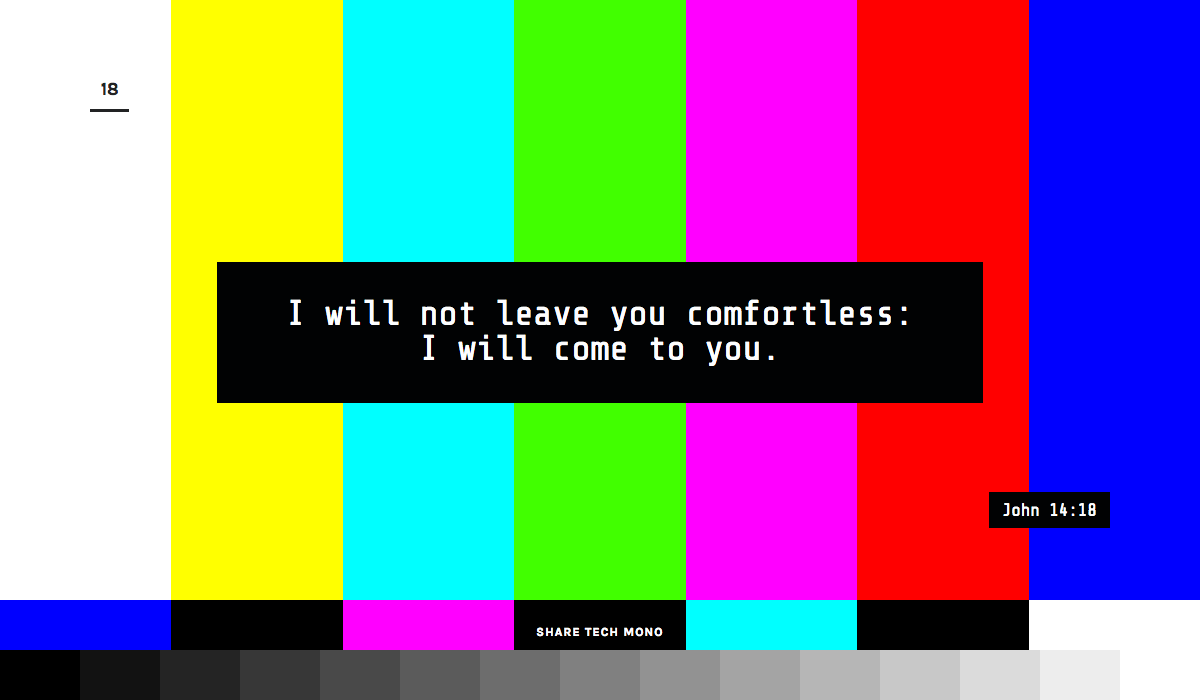
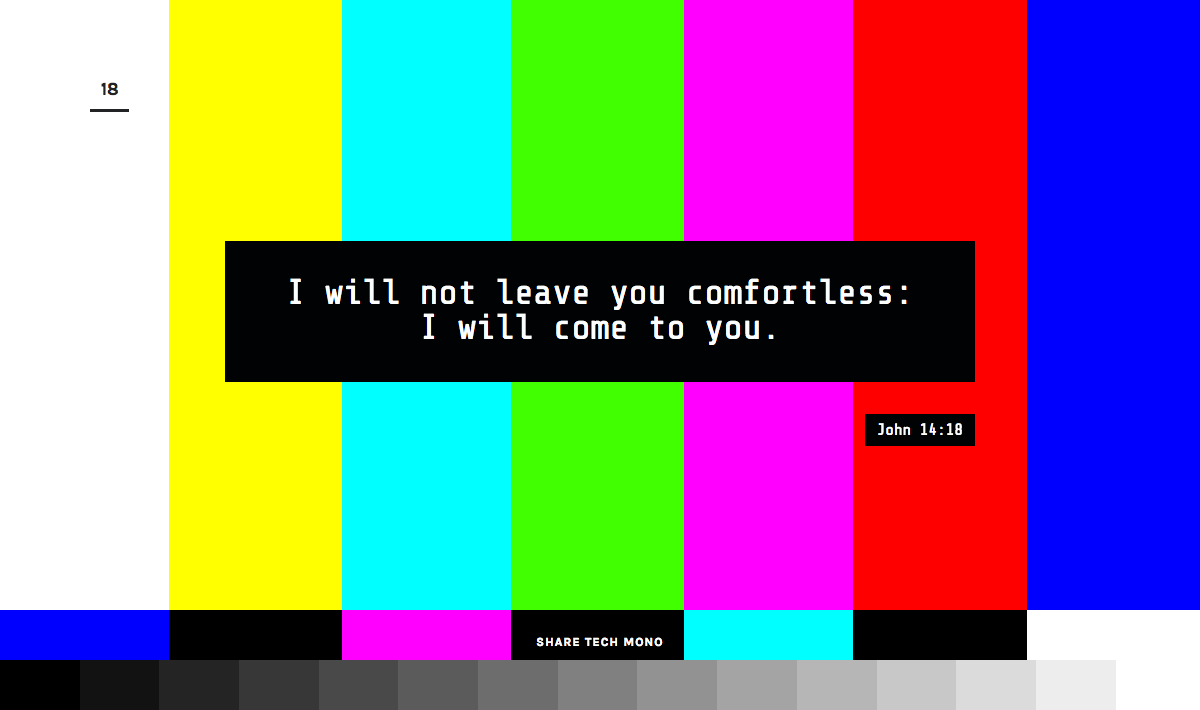
Day 18. Refactor! Fix .jpg to .png.

diff --git a/index.html b/index.html
@@ -8,7 +8,7 @@
 
   <meta name="fontsCSS" content="//fonts.googleapis.com/css?family=Karla:400,700|Playfair+Display:400,400italic,700,700italic|Share+Tech+Mono|PT+Serif:400,700italic|Montserrat|Inconsolata:700|Codystar|Old+Standard+TT:400,400italic|Oswald:300,400|Ovo|Lato:100,400|Libre+Baskerville:400italic|Vast+Shadow|Amatic+SC|PT+Mono|Abril+Fatface|Roboto:100,300|Crimson+Text:400,400italic,700|Glegoo:400,700">
   <style>
-    .about-title-wrap,.day-info,.day-number,.footer{text-align:center}a,aside,b,blockquote,body,cite,div,em,figcaption,figure,footer,h1,h2,h3,h4,h5,h6,header,html,i,img,li,nav,ol,p,q,section,small,span,strong,sub,sup,time,ul{font:inherit;vertical-align:baseline;border:0;padding:0;margin:0}.about-description,.container,.day-scripture{margin-left:auto;margin-right:auto}.day-info,.day-number,b,strong{font-weight:700}.about-title-head,.about-title-tail,em,i{font-style:italic}article,aside,details,figcaption,figure,footer,header,nav,section{display:block}body{line-height:1;font-family:KarlaLocal,"Open Sans",Helvetica,Arial,sans-serif;color:#222324;text-rendering:optimizeLegibility;-webkit-font-variant-ligatures:common-ligatures;font-variant-ligatures:common-ligatures;-webkit-font-feature-settings:"liga";font-feature-settings:"liga"}ol,ul{list-style:none}blockquote,q{quotes:none}blockquote:after,blockquote:before,q:after,q:before{content:'';content:none}@font-face{font-family:KarlaLocal;font-weight:400;font-style:normal;src:local("Karla"),local("Karla-Regular")}@font-face{font-family:KarlaLocal;font-weight:700;font-style:normal;src:local("Karla"),local("Karla-Bold")}@font-face{font-family:PlayfairDisplayLocal;font-weight:400;font-style:normal;src:local("Playfair Display"),local("PlayfairDisplay-Regular")}@font-face{font-family:PlayfairDisplayLocal;font-weight:700;font-style:normal;src:local("Playfair Display"),local("PlayfairDisplay-Bold")}@font-face{font-family:PlayfairDisplayLocal;font-weight:700;font-style:italic;src:local("Playfair Display"),local("PlayfairDisplay-BoldItalic")}.fonts-loaded-100 body{font-family:Karla,KarlaLocal,"Open Sans",Helvetica,Arial,sans-serif}.fonts-timeout-100 body{font-family:KarlaLocal,Karla,"Open Sans",Helvetica,Arial,sans-serif}a{color:#3498db;text-decoration:none}.footer,.footer a{color:#fdfeff}a:hover{text-decoration:underline}.container{max-width:64em}.footer{font-size:.875em;background-color:#222324;padding-top:1.5625em;padding-bottom:1.5625em}@media only screen and (min-width:40em){.footer{padding-top:1.875em;padding-bottom:1.875em}}@media only screen and (min-width:52em){.footer{padding-top:2.5em;padding-bottom:2.5em}}.day-number{color:#222324;border-bottom:3px solid #222324;display:inline-block;width:2.1875em;padding-bottom:.625em;margin-bottom:3.5em}.day-number--white{color:#fdfeff;border-bottom-color:#fdfeff}.day-scripture{max-width:80em}.day-scripture::after{clear:both;content:"";display:table}.day-info{font-size:.75em;letter-spacing:.1em;text-transform:uppercase;margin-top:5.33333em}.day-reference{display:block}.day-font{line-height:1.4}.day-font-link{color:#222324}.about,.day{padding:2.5em .9375em}@media only screen and (min-width:30em){.about,.day{padding:3.125em 1.875em}.day-number{margin-bottom:4.0625em}.day-info{margin-top:6.25em}}@media only screen and (min-width:40em){.about,.day{padding:3.75em 3.4375em}.day-number{font-size:1.0625em;margin-bottom:4.23529em}.day-info{margin-top:7em}}@media only screen and (min-width:52em){.about,.day{padding:4.375em 4.6875em}.day-number{margin-bottom:4.8125em}.day-info{margin-top:7.58333em}}@media only screen and (min-width:64em){.about,.day{padding:5em 5.625em}.day-number{font-size:1.125em;margin-bottom:4.44444em}.day-info{margin-top:8em}}.about{background-color:#f2f3f4}.about-title{font-family:PlayfairDisplayLocal,"Times New Roman",Times,serif;margin-bottom:1.25em}.fonts-loaded-100 .about-title{font-family:"Playfair Display",PlayfairDisplayLocal,"Times New Roman",Times,serif}.fonts-timeout-100 .about-title{font-family:PlayfairDisplayLocal,"Playfair Display","Times New Roman",Times,serif}.about-title-head{font-size:2.5em;font-weight:700;display:block}.about-title-tail{font-size:1em;letter-spacing:.22em;text-transform:uppercase;position:relative;left:.0625em}.about-description{color:#454647;line-height:1.3;letter-spacing:-.02em;max-width:31.25em}.day--18 .day-font-link,.day-18-text{color:#fdfeff}.about-description p:first-child{margin-bottom:.5em}@media only screen and (min-width:40em){.container--about{display:-webkit-flex;display:-ms-flexbox;display:flex;-webkit-justify-content:center;-ms-flex-pack:center;justify-content:center}.about-title-wrap{text-align:right;-webkit-flex:0 0 13.125em;-ms-flex:0 0 13.125em;flex:0 0 13.125em;margin-right:3.125em}.about-description{-webkit-flex:1;-ms-flex:1;flex:1;max-width:25em;margin-left:0;margin-right:0}.about-title{margin-top:-.9375em;margin-bottom:0}.about-title-head{font-size:3em}.about-title-tail{font-size:1.1875em;letter-spacing:.23em;left:.18421em}}.day--18{position:relative;height:26.25em}@media only screen and (min-width:30em){.day--18{height:25em}}@media only screen and (min-width:40em){.day--18{height:30em}}@media only screen and (min-width:52em){.about-title-head{font-size:4em}.about-title-tail{font-size:1.375em;letter-spacing:.355em;left:.27273em}.about-title-wrap{-webkit-flex-basis:16.875em;-ms-flex-preferred-size:16.875em;flex-basis:16.875em;margin-right:4.375em}.day--18{height:28.75em}}.day--18 .day-number{position:relative;z-index:2}.day--18 .day-text{font-family:"Share Tech Mono",Consolas,"Liberation Mono",Courier,monospace}.day--18 .day-reference{text-align:center;position:relative;z-index:2;float:right;top:5em}.day--18 .day-font,.day-18-bars{position:absolute;left:0;width:100%}.day--18 .day-reference-link{color:#fdfeff;padding:.5em .75em;background-color:#010203;display:inline-block}.day--18 .day-font{z-index:2;bottom:2.5em}@media only screen and (min-width:30em){.day--18 .day-font{bottom:3.125em}}@media only screen and (min-width:40em){.day--18 .day-font{bottom:3.75em}}@media only screen and (min-width:52em){.day--18 .day-reference{top:7em}.day--18 .day-font{bottom:4.375em}}@media only screen and (min-width:64em){.day--18{height:33.75em}.day--18 .day-reference{top:10em}.day--18 .day-font{bottom:5em}}.day-18-bars{top:0;z-index:1}.day-18-bar{width:14.285714286%;float:left}.day-18-bars--top .day-18-bar{height:25em}.day-18-bars--top .day-18-bar:nth-child(2){background:#ff0}.day-18-bars--top .day-18-bar:nth-child(3){background:#0ff}.day-18-bars--top .day-18-bar:nth-child(4){background:#41ff00}.day-18-bars--top .day-18-bar:nth-child(5){background:#ff00ff}.day-18-bars--top .day-18-bar:nth-child(6){background:red}.day-18-bars--mid .day-18-bar:nth-child(1),.day-18-bars--top .day-18-bar:nth-child(7){background:#00f}.day-18-bars--mid{top:25em}.day-18-bars--mid .day-18-bar{height:3.125em}.day-18-bars--mid .day-18-bar:nth-child(3){background:#ff00ff}.day-18-bars--mid .day-18-bar:nth-child(5){background:#0ff}.day-18-bars--mid .day-18-bar:nth-child(7){background:#fff}.day-18-bars--bottom .day-18-bar:nth-child(1),.day-18-bars--mid .day-18-bar:nth-child(2),.day-18-bars--mid .day-18-bar:nth-child(4),.day-18-bars--mid .day-18-bar:nth-child(6){background:#000}.day-18-bars--bottom{top:28.125em}.day-18-bars--bottom .day-18-bar{width:6.666666667%;height:3.125em}.day-18-bars--bottom .day-18-bar:nth-child(2){background:#121212}.day-18-bars--bottom .day-18-bar:nth-child(3){background:#242424}.day-18-bars--bottom .day-18-bar:nth-child(4){background:#373737}.day-18-bars--bottom .day-18-bar:nth-child(5){background:#494949}.day-18-bars--bottom .day-18-bar:nth-child(6){background:#5b5b5b}.day-18-bars--bottom .day-18-bar:nth-child(7){background:#6d6d6d}.day-18-bars--bottom .day-18-bar:nth-child(8){background:grey}.day-18-bars--bottom .day-18-bar:nth-child(9){background:#929292}.day-18-bars--bottom .day-18-bar:nth-child(10){background:#a4a4a4}.day-18-bars--bottom .day-18-bar:nth-child(11){background:#b6b6b6}.day-18-bars--bottom .day-18-bar:nth-child(12){background:#c8c8c8}.day-18-bars--bottom .day-18-bar:nth-child(13){background:#dbdbdb}.day-18-bars--bottom .day-18-bar:nth-child(14){background:#ededed}.day-18-bars--bottom .day-18-bar:nth-child(15){background:#fff}.day-18-text{font-size:1.3em;text-align:center;padding:1em;background:#010203;display:block;max-width:18.75em;margin-left:auto;margin-right:auto;position:relative;top:3.2em;z-index:2}@media only screen and (min-width:30em){.day-18-text{font-size:1.6em;top:1.8em}}@media only screen and (min-width:40em){.day--18 .day-reference-link{font-size:1.1em}.day--18 .day-reference{bottom:8.5em}.day-18-bars--top .day-18-bar{height:31.25em}.day-18-bars--mid{top:31.25em}.day-18-bars--bottom{top:34.375em}.day-18-text{font-size:2em;top:1.8em}}@media only screen and (min-width:64em){.day--18 .day-reference{bottom:9.5em}.day-18-bars--top .day-18-bar{height:37.5em}.day-18-bars--mid{top:37.5em}.day-18-bars--bottom{top:40.625em}}
+    .about-title-wrap,.day-info,.day-number,.footer{text-align:center}a,aside,b,blockquote,body,cite,div,em,figcaption,figure,footer,h1,h2,h3,h4,h5,h6,header,html,i,img,li,nav,ol,p,q,section,small,span,strong,sub,sup,time,ul{font:inherit;vertical-align:baseline;border:0;padding:0;margin:0}.about-description,.container,.day-scripture{margin-left:auto;margin-right:auto}.day-info,.day-number,b,strong{font-weight:700}.about-title-head,.about-title-tail,em,i{font-style:italic}article,aside,details,figcaption,figure,footer,header,nav,section{display:block}body{line-height:1;font-family:KarlaLocal,"Open Sans",Helvetica,Arial,sans-serif;color:#222324;text-rendering:optimizeLegibility;-webkit-font-variant-ligatures:common-ligatures;font-variant-ligatures:common-ligatures;-webkit-font-feature-settings:"liga";font-feature-settings:"liga"}ol,ul{list-style:none}blockquote,q{quotes:none}blockquote:after,blockquote:before,q:after,q:before{content:'';content:none}@font-face{font-family:KarlaLocal;font-weight:400;font-style:normal;src:local("Karla"),local("Karla-Regular")}@font-face{font-family:KarlaLocal;font-weight:700;font-style:normal;src:local("Karla"),local("Karla-Bold")}@font-face{font-family:PlayfairDisplayLocal;font-weight:400;font-style:normal;src:local("Playfair Display"),local("PlayfairDisplay-Regular")}@font-face{font-family:PlayfairDisplayLocal;font-weight:700;font-style:normal;src:local("Playfair Display"),local("PlayfairDisplay-Bold")}@font-face{font-family:PlayfairDisplayLocal;font-weight:700;font-style:italic;src:local("Playfair Display"),local("PlayfairDisplay-BoldItalic")}.fonts-loaded-100 body{font-family:Karla,KarlaLocal,"Open Sans",Helvetica,Arial,sans-serif}.fonts-timeout-100 body{font-family:KarlaLocal,Karla,"Open Sans",Helvetica,Arial,sans-serif}a{color:#3498db;text-decoration:none}.footer,.footer a{color:#fdfeff}a:hover{text-decoration:underline}.container{max-width:64em}.footer{font-size:.875em;background-color:#222324;padding-top:1.5625em;padding-bottom:1.5625em}@media only screen and (min-width:40em){.footer{padding-top:1.875em;padding-bottom:1.875em}}@media only screen and (min-width:52em){.footer{padding-top:2.5em;padding-bottom:2.5em}}.day-number{color:#222324;border-bottom:3px solid #222324;display:inline-block;width:2.1875em;padding-bottom:.625em;margin-bottom:3.5em}.day-number--white{color:#fdfeff;border-bottom-color:#fdfeff}.day-scripture{max-width:80em}.day-scripture::after{clear:both;content:"";display:table}.day-info{font-size:.75em;letter-spacing:.1em;text-transform:uppercase;margin-top:5.33333em}.day-reference{display:block}.day-font{line-height:1.4}.day-font-link{color:#222324}.about,.day{padding:2.5em .9375em}@media only screen and (min-width:30em){.about,.day{padding:3.125em 1.875em}.day-number{margin-bottom:4.0625em}.day-info{margin-top:6.25em}}@media only screen and (min-width:40em){.about,.day{padding:3.75em 3.4375em}.day-number{font-size:1.0625em;margin-bottom:4.23529em}.day-info{margin-top:7em}}@media only screen and (min-width:52em){.about,.day{padding:4.375em 4.6875em}.day-number{margin-bottom:4.8125em}.day-info{margin-top:7.58333em}}@media only screen and (min-width:64em){.about,.day{padding:5em 5.625em}.day-number{font-size:1.125em;margin-bottom:4.44444em}.day-info{margin-top:8em}}.about{background-color:#f2f3f4}.about-title{font-family:PlayfairDisplayLocal,"Times New Roman",Times,serif;margin-bottom:1.25em}.fonts-loaded-100 .about-title{font-family:"Playfair Display",PlayfairDisplayLocal,"Times New Roman",Times,serif}.fonts-timeout-100 .about-title{font-family:PlayfairDisplayLocal,"Playfair Display","Times New Roman",Times,serif}.about-title-head{font-size:2.5em;font-weight:700;display:block}.about-title-tail{font-size:1em;letter-spacing:.22em;text-transform:uppercase;position:relative;left:.0625em}.about-description{color:#454647;line-height:1.3;letter-spacing:-.02em;max-width:31.25em}.day--18 .day-font-link,.day-18-text{color:#fdfeff}.about-description p:first-child{margin-bottom:.5em}@media only screen and (min-width:40em){.container--about{display:-webkit-flex;display:-ms-flexbox;display:flex;-webkit-justify-content:center;-ms-flex-pack:center;justify-content:center}.about-title-wrap{text-align:right;-webkit-flex:0 0 13.125em;-ms-flex:0 0 13.125em;flex:0 0 13.125em;margin-right:3.125em}.about-description{-webkit-flex:1;-ms-flex:1;flex:1;max-width:25em;margin-left:0;margin-right:0}.about-title{margin-top:-.9375em;margin-bottom:0}.about-title-head{font-size:3em}.about-title-tail{font-size:1.1875em;letter-spacing:.23em;left:.18421em}}@media only screen and (min-width:52em){.about-title-head{font-size:4em}.about-title-tail{font-size:1.375em;letter-spacing:.355em;left:.27273em}.about-title-wrap{-webkit-flex-basis:16.875em;-ms-flex-preferred-size:16.875em;flex-basis:16.875em;margin-right:4.375em}}.day--18{background:linear-gradient(to right,#fff 0,#fff 14.29%,#ff0 14.29%,#ff0 28.57%,#0ff 28.57%,#0ff 42.86%,#41ff00 42.86%,#41ff00 57.14%,#ff00ff 57.14%,#ff00ff 71.43%,red 71.43%,red 85.71%,#00f 85.71%);position:relative;height:25em}@media only screen and (min-width:30em){.day--18{height:28.125em}}@media only screen and (min-width:40em){.day--18{height:31.25em}}@media only screen and (min-width:64em){.day--18{height:34.375em}}.day--18::after,.day--18::before{content:"";width:100%;height:3.125em;position:absolute;left:0}.day--18::before{bottom:3.125em;background:linear-gradient(to right,#00f 0,#00f 14.29%,#000 14.29%,#000 28.57%,#ff00ff 28.57%,#ff00ff 42.86%,#000 42.86%,#000 57.14%,#0ff 57.14%,#0ff 71.43%,#000 71.43%,#000 85.71%,#fff 85.71%)}.day--18::after{bottom:0;background:linear-gradient(to right,#000 0,#000 6.67%,#121212 6.67%,#121212 13.33%,#242424 13.33%,#242424 20%,#373737 20%,#373737 26.67%,#494949 26.67%,#494949 33.33%,#5b5b5b 33.33%,#5b5b5b 40%,#6d6d6d 40%,#6d6d6d 46.67%,grey 46.67%,grey 53.33%,#929292 53.33%,#929292 60%,#a4a4a4 60%,#a4a4a4 66.67%,#b6b6b6 66.67%,#b6b6b6 73.33%,#c8c8c8 73.33%,#c8c8c8 80%,#dbdbdb 80%,#dbdbdb 86.67%,#ededed 86.67%,#ededed 93.33%,#fff 93.33%)}.day--18 .day-number{position:relative;z-index:2}.day--18 .day-text{font-family:"Share Tech Mono",Consolas,"Liberation Mono",Courier,monospace;max-width:46.875em;margin-left:auto;margin-right:auto}.day--18 .day-reference{text-align:right;z-index:2;margin-top:2em}.day--18 .day-reference-link{color:#fdfeff;padding:.5em .75em;background-color:#010203;display:inline-block}.day--18 .day-font{position:absolute;width:100%;z-index:2;bottom:2.5em;left:0}@media only screen and (min-width:30em){.day--18 .day-font{bottom:3.125em}}@media only screen and (min-width:40em){.day--18 .day-font{bottom:3.75em}}@media only screen and (min-width:52em){.day--18 .day-font{bottom:4.375em}}.day-18-text{font-size:1.3em;text-align:center;padding:1em;background:#010203;display:block;margin-top:1em;z-index:2}@media only screen and (min-width:30em){.day-18-text{font-size:1.6em;margin-top:1.2em}}@media only screen and (min-width:40em){.day-18-text{font-size:2em;margin-top:1.4em}}@media only screen and (min-width:64em){.day--18 .day-font{bottom:5em}.day-18-text{font-size:2.2em;padding-left:1.5em;padding-right:1.5em}}
   </style>
   <meta name="mainCSS" content="assets/css/screen.css?20150817">
 
@@ -43,7 +43,7 @@
   <meta property="og:type" content="website">
 
   <meta property="og:description" content="One passage of Scripture, every day, for 100 days.">
-  <meta property="og:image" content="https://jonsuh.com/100-days-of-scriptures/assets/images/day-18.jpg">
+  <meta property="og:image" content="https://jonsuh.com/100-days-of-scriptures/assets/images/day-18.png">
   <meta property="og:image" content="https://jonsuh.com/100-days-of-scriptures/assets/images/day-17.jpg">
   <meta property="og:image" content="https://jonsuh.com/100-days-of-scriptures/assets/images/day-16.png">
   <meta property="og:image" content="https://jonsuh.com/100-days-of-scriptures/assets/images/day-15.png">
@@ -70,7 +70,7 @@
   <meta name="twitter:url" content="https://jonsuh.com/100-days-of-scriptures/">
   <meta name="twitter:title" content="100 Days of Scriptures">
   <meta name="twitter:description" content="One passage of Scripture, every day, for 100 days.">
-  <meta name="twitter:image:src" content="https://jonsuh.com/100-days-of-scriptures/assets/images/day-18.jpg">
+  <meta name="twitter:image:src" content="https://jonsuh.com/100-days-of-scriptures/assets/images/day-18.png">
 
   <meta name="mobile-web-app-capable" content="yes">
   <link rel="icon" sizes="192x192" href="https://jonsuh.com/100-days-of-scriptures/icon.png">
@@ -101,15 +101,6 @@
     <a href="#day-18"><time datetime="2015-08-17" title="August 17, 2015" class="day-number">18</time></a>
     <section class="day-scripture">
       <blockquote class="day-text">
-        <ul class="day-18-bars day-18-bars--top">
-          <li class="day-18-bar"></li><li class="day-18-bar"></li><li class="day-18-bar"></li><li class="day-18-bar"></li><li class="day-18-bar"></li><li class="day-18-bar"></li><li class="day-18-bar"></li>
-        </ul>
-        <ul class="day-18-bars day-18-bars--mid">
-          <li class="day-18-bar"></li><li class="day-18-bar"></li><li class="day-18-bar"></li><li class="day-18-bar"></li><li class="day-18-bar"></li><li class="day-18-bar"></li><li class="day-18-bar"></li>
-        </ul>
-        <ul class="day-18-bars day-18-bars--bottom">
-          <li class="day-18-bar"></li><li class="day-18-bar"></li><li class="day-18-bar"></li><li class="day-18-bar"></li><li class="day-18-bar"></li><li class="day-18-bar"></li><li class="day-18-bar"></li><li class="day-18-bar"></li><li class="day-18-bar"></li><li class="day-18-bar"></li><li class="day-18-bar"></li><li class="day-18-bar"></li><li class="day-18-bar"></li><li class="day-18-bar"></li><li class="day-18-bar"></li>
-        </ul>
         <span class="day-18-text">I will not leave you comfortless: I will come to you.</span>
         <footer class="day-reference">
           <cite><a href="https://www.bible.com/bible/1/joh.14.18" class="day-reference-link" class="day-reference-link">John 14:18</a></cite>

diff --git a/assets/sass/days/_018.scss b/assets/sass/days/_018.scss
@@ -4,19 +4,92 @@
 $day-18-font: "Share Tech Mono", Consolas, "Liberation Mono", Courier, monospace;
 
 .day--18 {
+  background: linear-gradient(to right,
+    white 0%,
+    white 14.29%,
+    yellow 14.29%,
+    yellow 28.57%,
+    cyan 28.57%,
+    cyan 42.86%,
+    #41ff00 42.86%,
+    #41ff00 57.14%,
+    magenta 57.14%,
+    magenta 71.43%,
+    red 71.43%,
+    red 85.71%,
+    blue 85.71%);
+
   position: relative;
-  height: em-calc(420);
+  height: em-calc(400);
   @include mq(small) {
-    height: em-calc(400);
+    height: em-calc(450);
   }
   @include mq(medium) {
-    height: em-calc(480);
-  }
-  @include mq(mid) {
-    height: em-calc(460);
+    height: em-calc(500);
   }
   @include mq(large) {
-    height: em-calc(540);
+    height: em-calc(550);
+  }
+
+  &::before,
+  &::after {
+    content: "";
+    width: 100%;
+    height: em-calc(50);
+    position: absolute;
+    left: 0;
+  }
+
+  &::before {
+    bottom: em-calc(50);
+    background: linear-gradient(to right,
+      blue 0%,
+      blue 14.29%,
+      black 14.29%,
+      black 28.57%,
+      magenta 28.57%,
+      magenta 42.86%,
+      black 42.86%,
+      black 57.14%,
+      cyan 57.14%,
+      cyan 71.43%,
+      black 71.43%,
+      black 85.71%,
+      white 85.71%);
+  }
+
+  &::after {
+    bottom: 0;
+    background: linear-gradient(to right,
+      black 0,
+      black 6.67%,
+      #121212 6.67%,
+      #121212 13.33%,
+      #242424 13.33%,
+      #242424 20%,
+      #373737 20%,
+      #373737 26.67%,
+      #494949 26.67%,
+      #494949 33.33%,
+      #5b5b5b 33.33%,
+      #5b5b5b 40%,
+      #6d6d6d 40%,
+      #6d6d6d 46.67%,
+      #808080 46.67%,
+      #808080 53.33%,
+      #929292 53.33%,
+      #929292 60%,
+      #a4a4a4 60%,
+      #a4a4a4 66.67%,
+      #b6b6b6 66.67%,
+      #b6b6b6 73.33%,
+      #c8c8c8 73.33%,
+      #c8c8c8 80%,
+      #dbdbdb 80%,
+      #dbdbdb 86.67%,
+      #ededed 86.67%,
+      #ededed 93.33%,
+      white 93.33%);
   }
 
   .day-number {
@@ -26,21 +99,15 @@ $day-18-font: "Share Tech Mono", Consolas, "Liberation Mono", Courier, monospace
 
   .day-text {
     font-family: $day-18-font;
+    max-width: em-calc(750);
+    margin-left: auto;
+    margin-right: auto;
   }
 
   .day-reference {
-    text-align: center;
-    position: relative;
+    text-align: right;
     z-index: 2;
-    float: right;
-    top: 5em;
-
-    @include mq(mid) {
-      top: 7em;
-    }
-    @include mq(large) {
-      top: 10em;
-    }
+    margin-top: 2em;
   }
 
   .day-reference-link {
@@ -51,10 +118,9 @@ $day-18-font: "Share Tech Mono", Consolas, "Liberation Mono", Courier, monospace
   }
 
   .day-font {
-    position: relative;
-    z-index: 2;
     position: absolute;
     width: 100%;
+    z-index: 2;
     bottom: 2.5em;
 
     @include mq(small) {
@@ -77,76 +143,6 @@ $day-18-font: "Share Tech Mono", Consolas, "Liberation Mono", Courier, monospace
   }
 }
 
-.day-18-bars {
-  position: absolute;
-  top: 0;
-  left: 0;
-  width: 100%;
-  z-index: 1;
-}
-
-.day-18-bar {
-  width: 14.285714286%;
-  float: left;
-}
-
-.day-18-bars--top {
-  .day-18-bar {
-    height: em-calc(400);
-
-    &:nth-child(2) { background: yellow; }
-    &:nth-child(3) { background: cyan; }
-    &:nth-child(4) { background: #41ff00; }
-    &:nth-child(5) { background: magenta; }
-    &:nth-child(6) { background: red; }
-    &:nth-child(7) { background: blue; }
-  }
-}
-
-.day-18-bars--mid {
-  top: em-calc(400);
-
-  .day-18-bar {
-    height: em-calc(50);
-
-    &:nth-child(1) { background: blue; }
-    &:nth-child(3) { background: magenta; }
-    &:nth-child(5) { background: cyan; }
-    &:nth-child(7) { background: white; }
-
-    &:nth-child(2),
-    &:nth-child(4),
-    &:nth-child(6) {
-      background: black
-    }
-  }
-}
-
-.day-18-bars--bottom {
-  top: em-calc(450);
-
-  .day-18-bar {
-    width: 6.666666667%;
-    height: em-calc(50);
-
-    &:nth-child(1) { background: black; }
-    &:nth-child(2) { background: #121212; }
-    &:nth-child(3) { background: #242424; }
-    &:nth-child(4) { background: #373737; }
-    &:nth-child(5) { background: #494949; }
-    &:nth-child(6) { background: #5b5b5b; }
-    &:nth-child(7) { background: #6d6d6d; }
-    &:nth-child(8) { background: #808080; }
-    &:nth-child(9) { background: #929292; }
-    &:nth-child(10) { background: #a4a4a4; }
-    &:nth-child(11) { background: #b6b6b6; }
-    &:nth-child(12) { background: #c8c8c8; }
-    &:nth-child(13) { background: #dbdbdb; }
-    &:nth-child(14) { background: #ededed; }
-    &:nth-child(15) { background: white; }
-  }
-}
-
 .day-18-text {
   font-size: 1.3em;
   color: $white;
@@ -154,77 +150,28 @@ $day-18-font: "Share Tech Mono", Consolas, "Liberation Mono", Courier, monospace
   padding: 1em;
   background: $black;
   display: block;
-  max-width: em-calc(300);
-  margin-left: auto;
-  margin-right: auto;
-  position: relative;
-  top: 3.2em;
+  margin-top: 1em;
   z-index: 2;
 }
 
 @include mq(small) {
   .day-18-text {
     font-size: 1.6em;
-    top: 1.8em;
+    margin-top: 1.2em;
   }
 }
 
 @include mq(medium) {
-  .day--18 {
-    .day-reference-link {
-      font-size: 1.1em;
-    }
-
-    .day-reference {
-      bottom: 8.5em;
-    }
-  }
-
-  .day-18-bars--top {
-    .day-18-bar {
-      height: em-calc(500);
-    }
-  }
-
-  .day-18-bars--mid {
-    top: em-calc(500);
-  }
-
-  .day-18-bars--bottom {
-    top: em-calc(550);
-  }
-
   .day-18-text {
     font-size: 2em;
-    top: 1.8em;
+    margin-top: 1.4em;
   }
 }
 
 @include mq(large) {
-  .day--18 {
-    .day-reference {
-      bottom: 9.5em;
-    }
-  }
-
-  .day-18-bars--top {
-    .day-18-bar {
-      height: em-calc(600);
-    }
-  }
-
-  .day-18-bars--mid {
-    top: em-calc(600);
-  }
-
-  .day-18-bars--bottom {
-    top: em-calc(650);
-  }
-
   .day-18-text {
     font-size: 2.2em;
     padding-left: 1.5em;
     padding-right: 1.5em;
-    top: 2em;
   }
 }
